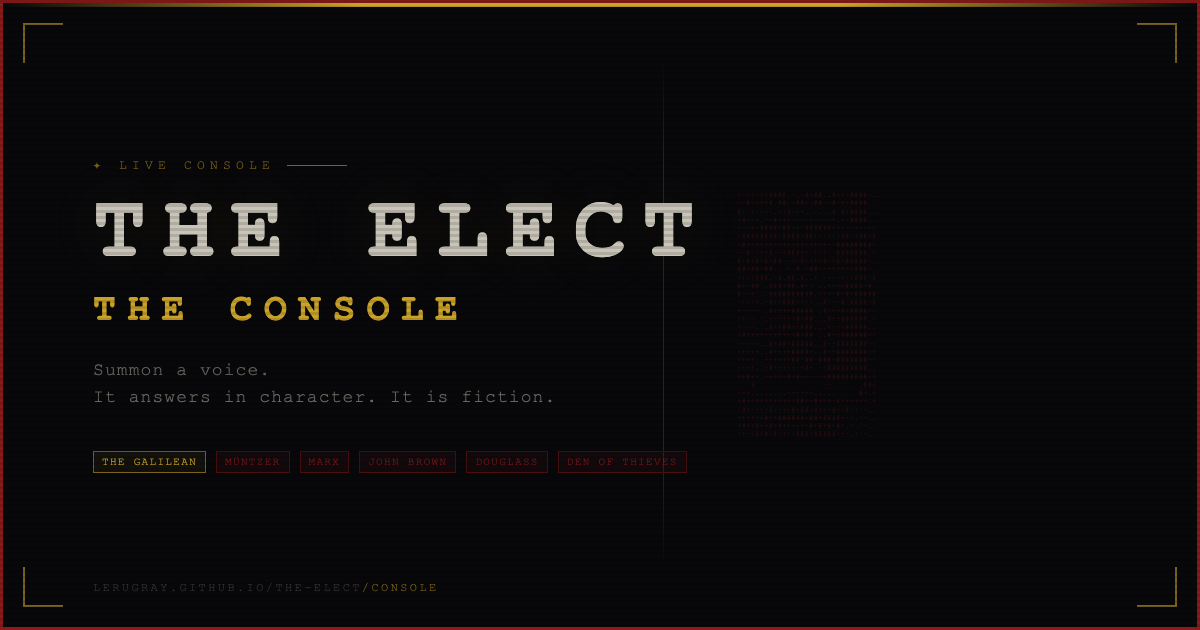
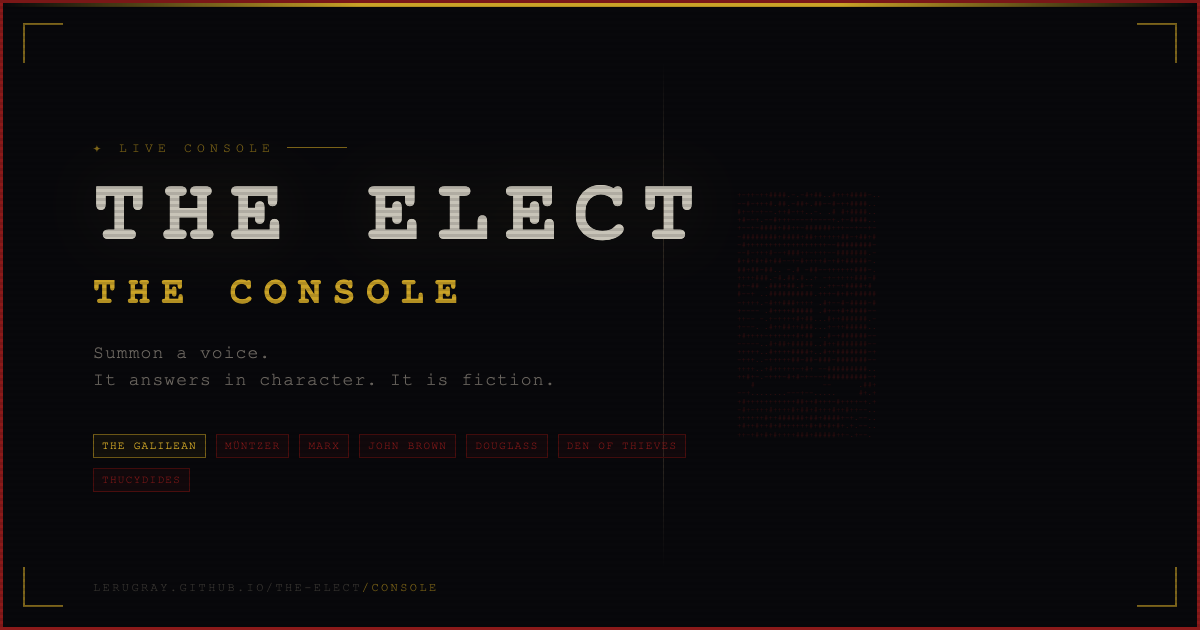
console+site: add melian (Thucydides) — 7th live voice, 18th roster entry
- console/config.js: melian voice (display Thucydides, hue #a8946a)
- index.html: nav chip + persona card in Instruments of Reason; HF weights link
- og-card.html + og-image.png: Thucydides chip added, card re-rendered
- assets/melian-ascii.txt: ASCII portrait

Worker/gateway live + smoke-passed (register + identity in-voice). Weights public
at huggingface.co/lerugray/melian-7b (PD/Crawley).

diff --git a/index.html b/index.html
@@ -142,13 +142,14 @@
         <span>THE ROLL CALL</span>
         <span class="heading-rule"></span>
       </h2>
-      <p class="section-sub">The Elect &mdash; seventeen public voices. Four withheld.</p>
+      <p class="section-sub">The Elect &mdash; eighteen public voices. Four withheld.</p>
 
       <nav class="roster-index" aria-label="Roster index">
         <div class="roster-index-group">
           <span class="roster-index-label">Instruments of Reason</span>
           <a class="roster-index-chip" href="#hammerstein">Hammerstein</a>
           <a class="roster-index-chip" href="#clausewitz">Clausewitz</a>
+          <a class="roster-index-chip" href="#melian">Melian</a>
         </div>
         <div class="roster-index-group">
           <span class="roster-index-label">Scripture & Saints</span>
@@ -344,6 +345,111 @@
               </a>
               <a href="https://lerugray.github.io/clausewitz-7b/" class="link-btn" target="_blank" rel="noopener">
                 <span class="link-icon">&#9672;</span> Open the page &rarr;
+              </a>
+            </div>
+          </div>
+        </div>
+      </article>
+
+
+      <article class="persona-card" data-status="public" id="melian">
+        <div class="card-header">
+          <div class="card-badge">VOICE MODEL</div>
+          <div class="card-status public">PUBLIC &mdash; CC-BY-NC-4.0</div>
+        </div>
+        <div class="card-body">
+          <div class="ascii-portrait" aria-hidden="true">
+            <pre class="ascii-art melian-art">---------------------------------------------------------------------------------==--------------===
+------------------------:-------------------------------------------------------------------=----=-=
+--:------------:---:-:-::-:----:---:------------=+=+====-===----------------------------------------
+--:---:-:-::::-::-:::::::-:::-::-:--:-----===+============+++=+==-----------------------------------
+:------::::-::::-:::::::::::-:::::-:--=+++*==++===+++=++==++++++==+=--------------------------------
+-::-:::-:-:-:::::::::-::::::::::::-+=++==+===================+++**+==+------------------------------
+::::::::::::::::::::::::::::::::::++=#=#====--====-=--=========+++++++*=----------------------------
+:::::::::::::::::-:::::::::::::::++==+==-----==============+++++++*+++**++--------------------------
+:::::::::::::::::-:::::::::::::=+=+++==-=-----------=========+++++**+*+#*#+-------------------------
+:::::::::::::::::::::::::::::-=+======-------=============+++++++++****+**+=------------------------
+:::::::::::::::::::::::::::::+==*++++-==---=-==-----========+++++++*##***##+---------------------:--
+::::::::::::::::::::::::::::-=+=+=++======---------=+======+++++++++***#####--------------------:---
+::::::::::::::::::::::::::::++++=+++==-=====-=-----====-===++++++++**+**+*##-----------:-:----------
+:::::::::::::::::::::::::::+==***+++====---=--=-===+======++++++++++*+***##*-:--:----------------::-
+:::::::::::::::::::::::::::-*=++++========++*+====++==+++**++++++++*++*+#*#%-------------:--::::--:-
+::::::::::::::::::::::::::::*=*=++++===++++##%#####===+#%######**##**+*#****=-:---------:-:------::-
+::::::::::::::::::::::::::::*%+%=+=====*#+######**+=--+*##%%#+#*###****##***---:-------:::-:-::-::::
+::::::::::::::::::::::::::::+*-==+++-=+#*=+==++====--==****+=+++###******%#*------------::::--::::::
+::::::::::::::::::::::::::::*%+#+-==--====++**+====---=**+=++******++*###%%------::-----:----::::-::
+:::::::::::::::::::::::::::::#==%#+===---=++++---==---=+++====+*+==+***%##%-:-::-::::---:-:-::::::::
+:::::::::::::::::::::::::::::*+%%*-=====---------==---=+++==-----=++*+*@@#-:::-::::-----::::::::::-:
+:::::::::::::::::::::::::::::-+#%=========-----===----=++++----==+**+**@%*:::::::::::::--::::::::::-
+::::::::::::::::::::::::::::::+==*=====+==-===+=-=====+++**+===+++*****@#:::::::::::::-:::::::::::::
+:::::::::::::::::::::::::::::::==+-===+======+++###**####*#*+++++****+*#:::::::::::::::-::::::::::::
+:::::::::::::::::::::::::::::::==**======+=+++=-=+*###%%##***+++*******:::::::::::::::::::::::::::::
+::::::::::::::::::::::::::::::::=++===-===++=---=++*++***++*+****++****:::::::::::::::::::::::::::::
+::::::::::::::::::::::::::::::::==*+==++====-=+##########%*+++++++*+#*::::::::::::::::::::::::::::::
+::::::::::::::::::::::::::::::::::=+====--=-+*%++-::::-=*#%#*++=+++***-:::::::::::::::::::::::::::::
+::::::::::::::::::::::::::::::::::=*==-=#+-=+*==+++*#*#****+**+++++***::::::::::::::::::::::::::::::
+:::::::::::::::::::::::::::::::::::=+=+==-=--=--+=*=+*+++++#+#***##**:::::::::::::::::::::::::::::::
+:::::::::::::::::::::::::::::::::::+*+=+*==-===-=:-==+==--=*=++=++***:::::::::::::::::::::::::::::::
+::::::::::::::::::::::::::::::::::::*=*=+======---=:=-:==++++*#**+*=::::::::::::::::::::::::::::::::
+:::::::::::::::::::::::::::::::::::-++##*==+++*=-=-=***+##****+#**+:::::::::::::::::::::::::::::::::
+:::::::::::::::::::::::::::::::::::==++*++#++*+++#++******##**#**:::::::::::::::::::::::::::::::::::
+::::::::::::::::::::::::::::::::::===++*%##***##+*%%###%%#*##***#:::::::::::::::::::::::::::::::::::
+::::::::::::::::::::::::::::::::====-=++##%#*#####%%#%######*####:::::::::::::::::::::::::::::::::::
+::::::::::::::::::::::::::::-======--=++=+*##%%%%%%%#%###%%######@@%::::::::::::::::::::::::::::::::
+::::::::::::::::::::::::-====-=====---====+***##%%%%%%%##########@%@%#*:::::::::::::::::::::::::::--
+:::::::::::::::::::::==---======-=-===----==++***##############*#%%%%@%#%::::::::::::::::::::::::---
+::::::::::::::::::==--------========--:--==++==*+**##*##**##*#**##%%#%#%%%%-::::::::::::::::::::----
+:::::::::::::-=---------------=--=====---:--==+++++*******##****####%%#@%#%%#-:::::::::::::::::-----
+::::::::---===----==----------------==-------=++===++++++**#+****#*###%#*%#*%##*-:::::::::::::------
+::::::-::--------=---==-----------======----===+=======+++++*****#*****%#*+%**%**+--:---:-::-:------
+::::-::-:------==-===----=------=======-===++=======---=====++++*****+*#**+**#++#=+*-------::-------
+::-::---------====++=-------:---=-------==========+===-=======++++*+++++*+*+++*+=+*++++---::--------
+:--::--:::------======------:.-==---==-=-==========--+=-:-=-=========+++*+**+==++++#+=***--:--------
+:=---::::::::----=====------:::---===-=---====-=====+=----==-==========++*+*++=+++==++==**+---------
+:=---.:::::-::-=======--:::---:--==-----------====+====----=-==-======++*+++++=+=+*+=++==+*=--------
+:=====-::-::--=-======---:::::----=-=-------=-=--=++==---------===-====++++++++===+*==++=++**-------
+::+--:-::=:=--++==+==-:--:--:-:---==--:-:-:-=---=+====------=--------=-=++++=+-====+*==++-=+#-------
+.::+=:--===========--:......:----=---:::-------=====++------=---==---=-=++++=+++==+++*==*+-=*-------
+:.::+-====++======-:-::.:--:.:-----:::-:-------=====+==--:-------=---=-=++++++*-==++++#++*+==-------
+.::::+====++====---:.:-.:-::::::::::-----------========--::----------===+++=+++++=**#+*+=++==-------
+::::::===+=====-=+=-::--:--::::::::::--==---===-----===-::--===---=======++++==++=++++**=+*+=-------
+..::::::+====+-=-------:-::::::-:::::-=----======-----------=--=-=-=========+==+==+++=+#*+++--------
+::::::::::*+=====----==-----:::::-::::-----=-=-==-------------------========++++++=+*+***+*+------=-
+::::::.::::=+===---====------:::::::---=--=-----=----:----:-------============++++==+++++**------=--
+::::::.::::::+=----====-------:--::::---==---+=--=----::::----:--===-===-==+===++==-=*=*+*+------=--
+:::::::::::::+-===-===-=-------::::-:-=====----=------::::---:----=-====-==+++==+-===#+++++---------
+:::::::::::::-========-----------:--:--===-=--=-=-------:::--------========+++==+==-=+**++-----==---
+::::::::::::::+===---=-----------:-:-----====--==---====--:::-------==-====++++=======#*+=-------=--
+::::::::::::::++=======------------:--======+=======+++==-:.::--:--:--=-====++*==+====*++------=----
+::::::::::::::-*=========---------==--=====--======+++==---:.:-----:---==+++++++=+====+*+------==---
+:::::::::::::::+===-======----==---=-===========++=++==-----:::--------==++=++++++-==+=*+-----===---
+.::::::::::::::-+============-=------==+==-==+===+=+++==-==-::::--=::-==+++*++++++-++++*------=-=-=-
+::::::::::::::::*===========-=--:----======+=+==+++*++==-=-----::--=-==+++=+**++++++++++------=-===-
+:::.::::::::::::-*+=========----:-----===+=======+++++====-=---------==+++++*++++**++=+------=-=-==-
+:....:::::::::::--*+===---------::-:-:-===+=++=+++*+++====:===----=====+++*+++*+***+++--------======
+.:..::::::::::-----#==--=------=--:----===++++++++*+++++===--------===++++++++**++***=-------=======
+:.::::::::::::------========----------====+++++++++*++++======+=====+==+++++++*++***===------=-=====
+:::.:::::::-----------*++=========--=-==++*++**+++**+++======+=========+++++***+**=======---========
+:.::::::::--------------*+==++++++++===++++++*+++***+*++=++===+===++++=+++++****+=========--========
+::::::.::::---------------*+++++++=++=++++++****+*****++++++*=++++++++++++++*#=============-========
+::::::::::::-----------------#*++++++*******#+*******+=+++***+++++*#**#*+#+================-========
+.:::::.:::::---------------------#******########%%@%#%%%%#@@@@@@@@@=================================</pre>
+          </div>
+          <div class="card-content">
+            <div class="persona-name-row">
+              <h3 class="persona-name">MELIAN <span class="codename">(Thucydides)</span></h3>
+              <span class="persona-register">historian of the Peloponnesian War, c. 460&ndash;400 BC</span>
+            </div>
+            <p class="persona-desc">
+              The Melian Dialogue: &lsquo;The strong do what they can and the weak suffer what they must.&rsquo;
+              Thucydides&rsquo;s register, drawn from the History of the Peloponnesian War: austere
+              analytical prose, the search for the truest cause beneath stated pretexts, tragic
+              realism about power. The founder of political history as a discipline. It never breaks
+              character; nothing it says is advice. CC-BY-NC-4.0; public-domain source (Crawley, 1874).
+            </p>
+            <div class="persona-links">
+              <a href="https://huggingface.co/lerugray/melian-7b" class="link-btn" target="_blank" rel="noopener">
+                <span class="link-icon">&#9095;</span> Weights (HF)
               </a>
             </div>
           </div>

diff --git a/styles.css b/styles.css
@@ -542,6 +542,17 @@ body {
   text-shadow: 0 0 8px rgba(159, 178, 198, 0.35);
 }
 
+.melian-art {
+  color: #a8946a;              /* aged parchment-bronze — Athenian marble + worn papyrus; distinct from Clausewitz's cool blue */
+  opacity: 0.83;
+  text-shadow: none;
+}
+
+.persona-card:hover .melian-art {
+  color: #bfa97e;
+  text-shadow: 0 0 8px rgba(168, 148, 106, 0.35);
+}
+
 .placeholder-art {
   font-size: 0.5rem;
   line-height: 1.3;

diff --git a/console/config.js b/console/config.js
@@ -54,5 +54,11 @@ export const CONFIG = {
       figure: 'Frederick Douglass',
       hue: '#9fb2c6',
     },
+    {
+      codename: 'melian',
+      display: 'Thucydides',
+      figure: 'Thucydides of Athens',
+      hue: '#a8946a',
+    },
   ],
 };

diff --git a/console/og-card.html b/console/og-card.html
@@ -242,6 +242,7 @@
       <span class="persona-chip">John Brown</span>
       <span class="persona-chip">Douglass</span>
       <span class="persona-chip">Den of Thieves</span>
+      <span class="persona-chip">Thucydides</span>
     </div>
   </div>
 